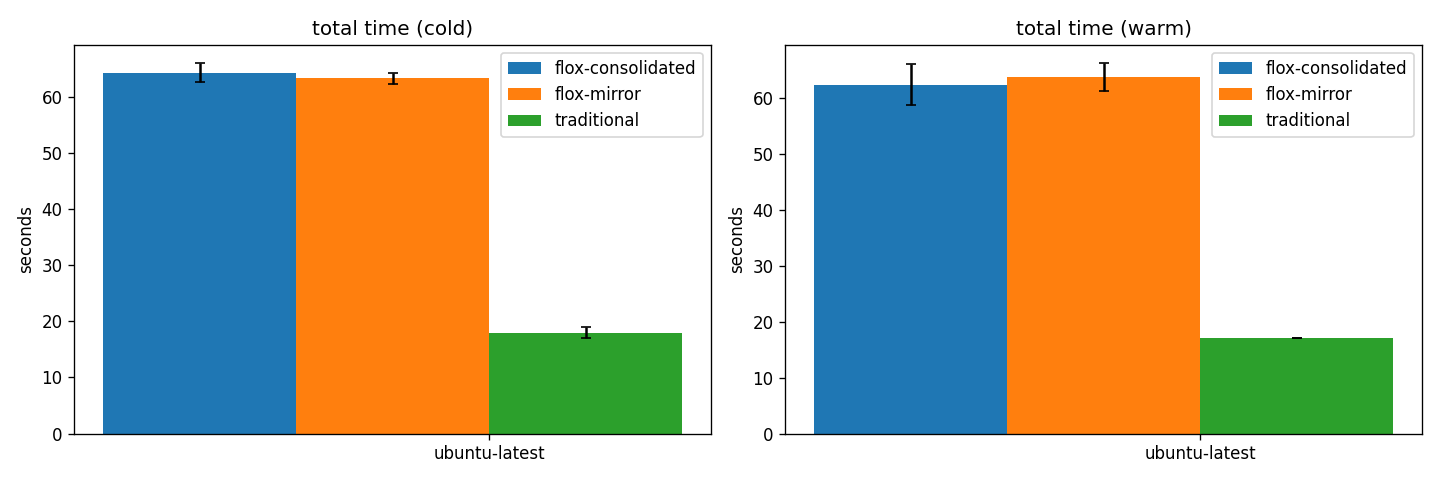
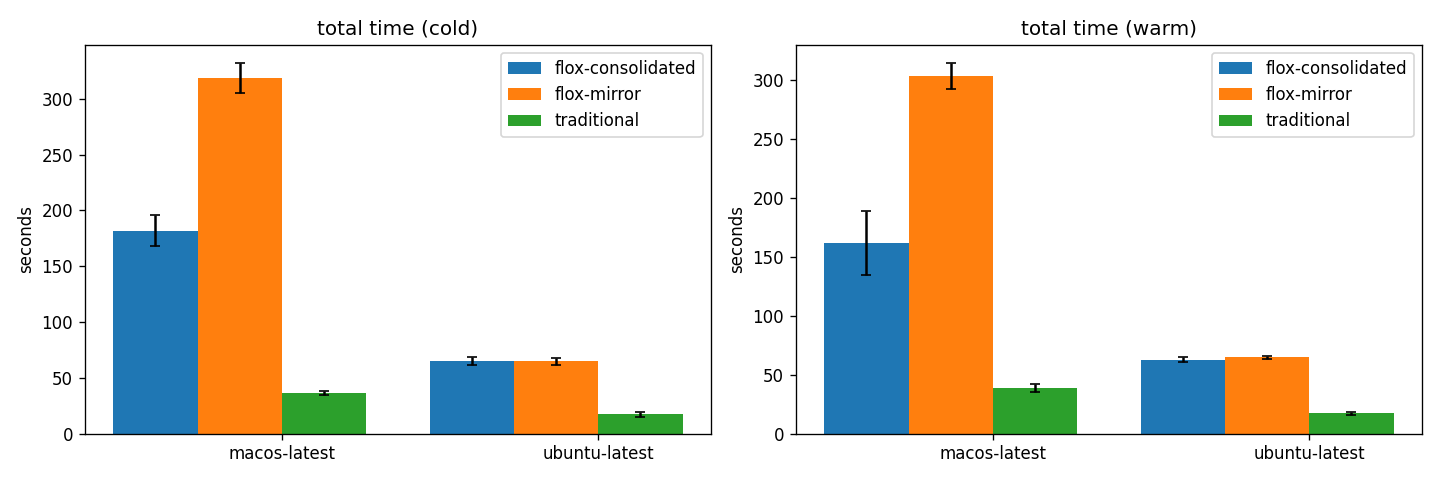
chore: add full cross-OS timing results (ubuntu+macos, reps=5, 10 checks)

diff --git a/experiment/results/REPORT.md b/experiment/results/REPORT.md
@@ -4,65 +4,111 @@
 
 | side | os | cache | n | min | max | avg | median | stddev | Δ% vs base |
 | --- | --- | --- | ---: | ---: | ---: | ---: | ---: | ---: | ---: |
-| flox-consolidated | ubuntu-latest | cold | 3 | 62.0 | 66.0 | 64.3 | 65.0 | 1.7 | +257.4% |
-| flox-mirror | ubuntu-latest | cold | 3 | 62.0 | 64.0 | 63.3 | 64.0 | 0.9 | +251.9% |
-| traditional | ubuntu-latest | cold | 2 | 17.0 | 19.0 | 18.0 | 18.0 | 1.0 | — |
-| flox-consolidated | ubuntu-latest | warm | 3 | 58.0 | 67.0 | 62.3 | 62.0 | 3.7 | +266.7% |
-| flox-mirror | ubuntu-latest | warm | 3 | 61.0 | 67.0 | 63.7 | 63.0 | 2.5 | +274.5% |
-| traditional | ubuntu-latest | warm | 1 | 17.0 | 17.0 | 17.0 | 17.0 | 0.0 | — |
+| flox-consolidated | macos-latest | cold | 5 | 169.0 | 199.0 | 181.6 | 173.0 | 13.9 | +398.9% |
+| flox-mirror | macos-latest | cold | 5 | 295.0 | 331.0 | 318.4 | 324.0 | 13.5 | +774.7% |
+| traditional | macos-latest | cold | 5 | 35.0 | 39.0 | 36.4 | 36.0 | 1.5 | — |
+| flox-consolidated | macos-latest | warm | 5 | 132.0 | 201.0 | 161.6 | 158.0 | 27.1 | +317.9% |
+| flox-mirror | macos-latest | warm | 5 | 292.0 | 323.0 | 303.6 | 302.0 | 10.9 | +685.2% |
+| traditional | macos-latest | warm | 3 | 34.0 | 41.0 | 38.7 | 41.0 | 3.3 | — |
+| flox-consolidated | ubuntu-latest | cold | 5 | 60.0 | 71.0 | 64.8 | 65.0 | 3.8 | +276.7% |
+| flox-mirror | ubuntu-latest | cold | 5 | 60.0 | 68.0 | 64.8 | 64.0 | 3.0 | +276.7% |
+| traditional | ubuntu-latest | cold | 5 | 15.0 | 20.0 | 17.2 | 17.0 | 2.0 | — |
+| flox-consolidated | ubuntu-latest | warm | 5 | 60.0 | 65.0 | 62.8 | 64.0 | 2.3 | +265.1% |
+| flox-mirror | ubuntu-latest | warm | 5 | 63.0 | 67.0 | 64.6 | 64.0 | 1.4 | +275.6% |
+| traditional | ubuntu-latest | warm | 5 | 16.0 | 19.0 | 17.2 | 17.0 | 1.2 | — |
 
 ## Per-job breakdown
 
 | job | side | os | cache | avg | stddev |
 | --- | --- | --- | --- | ---: | ---: |
-| hygiene | flox-consolidated | ubuntu-latest | cold | 57.0 | 0.8 |
-| hygiene | flox-consolidated | ubuntu-latest | warm | 53.3 | 3.3 |
-| pytest | flox-consolidated | ubuntu-latest | cold | 59.3 | 1.2 |
-| pytest | flox-consolidated | ubuntu-latest | warm | 57.0 | 4.1 |
-| checks / bandit | flox-mirror | ubuntu-latest | cold | 51.3 | 3.4 |
-| checks / bandit | flox-mirror | ubuntu-latest | warm | 53.0 | 4.9 |
-| checks / codespell | flox-mirror | ubuntu-latest | cold | 50.0 | 3.6 |
-| checks / codespell | flox-mirror | ubuntu-latest | warm | 52.7 | 3.3 |
-| checks / commitlint | flox-mirror | ubuntu-latest | cold | 52.7 | 6.8 |
-| checks / commitlint | flox-mirror | ubuntu-latest | warm | 52.3 | 2.5 |
-| checks / editorconfig | flox-mirror | ubuntu-latest | cold | 52.7 | 4.9 |
-| checks / editorconfig | flox-mirror | ubuntu-latest | warm | 55.3 | 4.1 |
-| checks / gitleaks | flox-mirror | ubuntu-latest | cold | 50.3 | 3.3 |
-| checks / gitleaks | flox-mirror | ubuntu-latest | warm | 52.3 | 1.7 |
-| checks / pytest | flox-mirror | ubuntu-latest | cold | 52.3 | 2.9 |
-| checks / pytest | flox-mirror | ubuntu-latest | warm | 57.3 | 3.4 |
-| checks / ruff-check | flox-mirror | ubuntu-latest | cold | 55.0 | 3.6 |
-| checks / ruff-check | flox-mirror | ubuntu-latest | warm | 54.0 | 1.6 |
-| checks / ruff-format | flox-mirror | ubuntu-latest | cold | 52.3 | 3.3 |
-| checks / ruff-format | flox-mirror | ubuntu-latest | warm | 49.3 | 5.4 |
-| checks / taplo | flox-mirror | ubuntu-latest | cold | 50.3 | 4.0 |
-| checks / taplo | flox-mirror | ubuntu-latest | warm | 54.0 | 4.2 |
-| checks / ty | flox-mirror | ubuntu-latest | cold | 50.3 | 2.1 |
-| checks / ty | flox-mirror | ubuntu-latest | warm | 52.7 | 5.4 |
-| checks / yamllint | flox-mirror | ubuntu-latest | cold | 51.0 | 2.9 |
-| checks / yamllint | flox-mirror | ubuntu-latest | warm | 50.0 | 1.6 |
-| checks / bandit | traditional | ubuntu-latest | cold | 9.0 | 0.0 |
-| checks / bandit | traditional | ubuntu-latest | warm | 10.0 | 0.0 |
-| checks / codespell | traditional | ubuntu-latest | cold | 7.0 | 2.0 |
-| checks / codespell | traditional | ubuntu-latest | warm | 6.0 | 0.0 |
-| checks / commitlint | traditional | ubuntu-latest | cold | 7.0 | 0.0 |
-| checks / commitlint | traditional | ubuntu-latest | warm | 8.0 | 0.0 |
-| checks / editorconfig | traditional | ubuntu-latest | cold | 8.5 | 1.5 |
-| checks / editorconfig | traditional | ubuntu-latest | warm | 7.0 | 0.0 |
-| checks / gitleaks | traditional | ubuntu-latest | cold | 9.0 | 0.0 |
-| checks / gitleaks | traditional | ubuntu-latest | warm | 5.0 | 0.0 |
-| checks / pytest | traditional | ubuntu-latest | cold | 12.0 | 3.0 |
-| checks / pytest | traditional | ubuntu-latest | warm | 12.0 | 0.0 |
-| checks / ruff-check | traditional | ubuntu-latest | cold | 7.5 | 1.5 |
-| checks / ruff-check | traditional | ubuntu-latest | warm | 10.0 | 0.0 |
-| checks / ruff-format | traditional | ubuntu-latest | cold | 5.5 | 0.5 |
-| checks / ruff-format | traditional | ubuntu-latest | warm | 10.0 | 0.0 |
-| checks / taplo | traditional | ubuntu-latest | cold | 7.0 | 1.0 |
-| checks / taplo | traditional | ubuntu-latest | warm | 7.0 | 0.0 |
-| checks / ty | traditional | ubuntu-latest | cold | 8.0 | 1.0 |
-| checks / ty | traditional | ubuntu-latest | warm | 11.0 | 0.0 |
-| checks / yamllint | traditional | ubuntu-latest | cold | 8.5 | 1.5 |
-| checks / yamllint | traditional | ubuntu-latest | warm | 6.0 | 0.0 |
+| hygiene | flox-consolidated | macos-latest | cold | 167.4 | 20.4 |
+| hygiene | flox-consolidated | macos-latest | warm | 137.4 | 20.5 |
+| pytest | flox-consolidated | macos-latest | cold | 163.2 | 20.1 |
+| pytest | flox-consolidated | macos-latest | warm | 145.8 | 26.3 |
+| checks / bandit | flox-mirror | macos-latest | cold | 134.4 | 10.3 |
+| checks / bandit | flox-mirror | macos-latest | warm | 143.6 | 19.7 |
+| checks / codespell | flox-mirror | macos-latest | cold | 138.6 | 11.6 |
+| checks / codespell | flox-mirror | macos-latest | warm | 137.6 | 19.4 |
+| checks / commitlint | flox-mirror | macos-latest | cold | 135.8 | 17.3 |
+| checks / commitlint | flox-mirror | macos-latest | warm | 133.2 | 4.1 |
+| checks / gitleaks | flox-mirror | macos-latest | cold | 156.2 | 14.7 |
+| checks / gitleaks | flox-mirror | macos-latest | warm | 134.0 | 14.2 |
+| checks / pytest | flox-mirror | macos-latest | cold | 142.6 | 15.2 |
+| checks / pytest | flox-mirror | macos-latest | warm | 140.6 | 10.8 |
+| checks / ruff-check | flox-mirror | macos-latest | cold | 155.8 | 17.2 |
+| checks / ruff-check | flox-mirror | macos-latest | warm | 129.4 | 5.7 |
+| checks / ruff-format | flox-mirror | macos-latest | cold | 152.8 | 19.1 |
+| checks / ruff-format | flox-mirror | macos-latest | warm | 139.2 | 16.1 |
+| checks / taplo | flox-mirror | macos-latest | cold | 145.8 | 19.6 |
+| checks / taplo | flox-mirror | macos-latest | warm | 138.2 | 10.2 |
+| checks / ty | flox-mirror | macos-latest | cold | 150.2 | 24.3 |
+| checks / ty | flox-mirror | macos-latest | warm | 131.8 | 13.2 |
+| checks / yamllint | flox-mirror | macos-latest | cold | 136.0 | 17.7 |
+| checks / yamllint | flox-mirror | macos-latest | warm | 137.8 | 13.5 |
+| checks / bandit | traditional | macos-latest | cold | 11.4 | 0.8 |
+| checks / bandit | traditional | macos-latest | warm | 12.3 | 1.7 |
+| checks / codespell | traditional | macos-latest | cold | 12.2 | 1.7 |
+| checks / codespell | traditional | macos-latest | warm | 12.0 | 1.4 |
+| checks / commitlint | traditional | macos-latest | cold | 12.8 | 1.0 |
+| checks / commitlint | traditional | macos-latest | warm | 13.0 | 0.8 |
+| checks / gitleaks | traditional | macos-latest | cold | 11.4 | 0.8 |
+| checks / gitleaks | traditional | macos-latest | warm | 11.3 | 0.5 |
+| checks / pytest | traditional | macos-latest | cold | 16.6 | 1.0 |
+| checks / pytest | traditional | macos-latest | warm | 18.0 | 2.2 |
+| checks / ruff-check | traditional | macos-latest | cold | 10.8 | 1.5 |
+| checks / ruff-check | traditional | macos-latest | warm | 11.3 | 1.2 |
+| checks / ruff-format | traditional | macos-latest | cold | 9.8 | 0.4 |
+| checks / ruff-format | traditional | macos-latest | warm | 10.3 | 0.5 |
+| checks / taplo | traditional | macos-latest | cold | 11.6 | 0.5 |
+| checks / taplo | traditional | macos-latest | warm | 10.3 | 0.5 |
+| checks / ty | traditional | macos-latest | cold | 11.8 | 0.7 |
+| checks / ty | traditional | macos-latest | warm | 12.0 | 0.8 |
+| checks / yamllint | traditional | macos-latest | cold | 10.8 | 1.2 |
+| checks / yamllint | traditional | macos-latest | warm | 12.7 | 0.5 |
+| hygiene | flox-consolidated | ubuntu-latest | cold | 57.8 | 4.2 |
+| hygiene | flox-consolidated | ubuntu-latest | warm | 56.8 | 2.3 |
+| pytest | flox-consolidated | ubuntu-latest | cold | 58.2 | 2.1 |
+| pytest | flox-consolidated | ubuntu-latest | warm | 56.2 | 2.7 |
+| checks / bandit | flox-mirror | ubuntu-latest | cold | 53.4 | 3.9 |
+| checks / bandit | flox-mirror | ubuntu-latest | warm | 52.2 | 2.8 |
+| checks / codespell | flox-mirror | ubuntu-latest | cold | 50.6 | 4.2 |
+| checks / codespell | flox-mirror | ubuntu-latest | warm | 53.6 | 3.2 |
+| checks / commitlint | flox-mirror | ubuntu-latest | cold | 49.8 | 3.0 |
+| checks / commitlint | flox-mirror | ubuntu-latest | warm | 53.4 | 1.9 |
+| checks / gitleaks | flox-mirror | ubuntu-latest | cold | 53.6 | 4.7 |
+| checks / gitleaks | flox-mirror | ubuntu-latest | warm | 51.8 | 3.2 |
+| checks / pytest | flox-mirror | ubuntu-latest | cold | 55.4 | 6.3 |
+| checks / pytest | flox-mirror | ubuntu-latest | warm | 52.8 | 2.8 |
+| checks / ruff-check | flox-mirror | ubuntu-latest | cold | 52.2 | 3.7 |
+| checks / ruff-check | flox-mirror | ubuntu-latest | warm | 51.4 | 3.4 |
+| checks / ruff-format | flox-mirror | ubuntu-latest | cold | 50.2 | 3.9 |
+| checks / ruff-format | flox-mirror | ubuntu-latest | warm | 51.4 | 2.1 |
+| checks / taplo | flox-mirror | ubuntu-latest | cold | 49.0 | 1.3 |
+| checks / taplo | flox-mirror | ubuntu-latest | warm | 53.2 | 2.9 |
+| checks / ty | flox-mirror | ubuntu-latest | cold | 53.4 | 5.1 |
+| checks / ty | flox-mirror | ubuntu-latest | warm | 55.8 | 4.5 |
+| checks / yamllint | flox-mirror | ubuntu-latest | cold | 48.4 | 1.5 |
+| checks / yamllint | flox-mirror | ubuntu-latest | warm | 51.4 | 4.5 |
+| checks / bandit | traditional | ubuntu-latest | cold | 8.0 | 1.8 |
+| checks / bandit | traditional | ubuntu-latest | warm | 10.8 | 0.4 |
+| checks / codespell | traditional | ubuntu-latest | cold | 6.6 | 1.7 |
+| checks / codespell | traditional | ubuntu-latest | warm | 7.4 | 1.5 |
+| checks / commitlint | traditional | ubuntu-latest | cold | 9.4 | 1.2 |
+| checks / commitlint | traditional | ubuntu-latest | warm | 9.0 | 1.4 |
+| checks / gitleaks | traditional | ubuntu-latest | cold | 10.4 | 2.4 |
+| checks / gitleaks | traditional | ubuntu-latest | warm | 7.2 | 1.2 |
+| checks / pytest | traditional | ubuntu-latest | cold | 11.2 | 1.5 |
+| checks / pytest | traditional | ubuntu-latest | warm | 11.6 | 1.9 |
+| checks / ruff-check | traditional | ubuntu-latest | cold | 7.2 | 1.6 |
+| checks / ruff-check | traditional | ubuntu-latest | warm | 6.8 | 1.0 |
+| checks / ruff-format | traditional | ubuntu-latest | cold | 8.0 | 1.4 |
+| checks / ruff-format | traditional | ubuntu-latest | warm | 7.4 | 1.4 |
+| checks / taplo | traditional | ubuntu-latest | cold | 7.2 | 2.0 |
+| checks / taplo | traditional | ubuntu-latest | warm | 8.0 | 1.3 |
+| checks / ty | traditional | ubuntu-latest | cold | 7.2 | 1.2 |
+| checks / ty | traditional | ubuntu-latest | warm | 8.4 | 2.2 |
+| checks / yamllint | traditional | ubuntu-latest | cold | 8.0 | 1.7 |
+| checks / yamllint | traditional | ubuntu-latest | warm | 8.2 | 1.6 |
 
 ## Charts
 